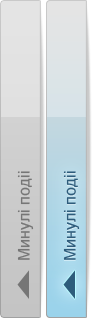
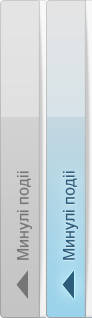
Carousel background

diff --git a/media/pinax/css/homepage.css b/media/pinax/css/homepage.css
@@ -52,6 +52,7 @@ margin: 20px;
 }
 
 .event_carousel {
+background: url("images/carousel-bg.png") repeat-x scroll 0 0 transparent;
 float: left;
 }
 
@@ -119,4 +120,8 @@ float: left;
 background-position: -46px 0;
 }
 
+.carousel_footer {
+background: url("images/carousel-footer.png") no-repeat scroll 0 0;
+height: 26px;
+}
 

diff --git a/templates/homepage.html b/templates/homepage.html
@@ -42,7 +42,7 @@
             </ul>
         </div>
         <a class="next" href="javascript:void(0)"></a>
-        <div class="clear"></div>
+        <div class="carousel_footer clear"></div>
       </div>
 
       <h2>{% trans "Новини" %}</h2>
